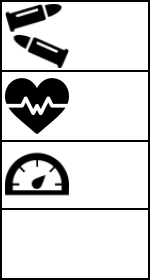
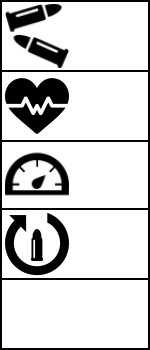
gun cooldown added

Changed region(s): [[0.0, 0.0, 0.9867, 0.8], [0.0267, 0.9714, 0.9867, 1.0]]

diff --git a/js/Player.js b/js/Player.js
@@ -13,9 +13,17 @@ this.system = this.system || {};
     p._START_SPEED = null;
     p._START_DAMAGE = null;
     p._START_HEALTH = null;
+    p._START_COOLDOWN = null;
+
     p._DAMAGE_UPGRADES = null;
     p._HEALTH_UPGRADES = null;
     p._SPEED_UPGRADES = null;
+    p._COOLDOWN_UPGRADES = null;
+
+    p._damageUpgrades = null;
+    p._healthUpgrades = null;
+    p._speedUpgrades = null;
+    p._cooldownUpgrades = null;
 
     p._speed = null;
     p._width = null;
@@ -28,11 +36,7 @@ this.system = this.system || {};
     p._health = null;
     p._healthShape = null;
     p._healthColor = null;
-    p._gunCooldown = null;
-
-    p._damageUpgrades = null;
-    p._healthUpgrades = null;
-    p._speedUpgrades = null;
+    p._cooldown = null;
 
     p._highscore = null;
 
@@ -42,12 +46,14 @@ this.system = this.system || {};
         this._START_DAMAGE = 10;
         this._START_HEALTH = 100;
         this._START_SPEED = 6;
+        this._START_COOLDOWN = 300;
 
         this._DAMAGE_UPGRADES = [5, 8, 10, 13, 16];
         this._HEALTH_UPGRADES = [15, 20, 30, 40, 50];
         this._SPEED_UPGRADES = [1, 1, 2, 2, 3];
+        this._COOLDOWN_UPGRADES = [50, 50, 50, 50, 50];
 
-        this._gunCooldown = 200;
+        this._cooldown = this._START_COOLDOWN;
 
         const highscore = this._highscore = JSON.parse(localStorage.getItem("highscore"));
         if(highscore === null){
@@ -101,15 +107,18 @@ this.system = this.system || {};
         this._speed = this._START_SPEED;
         this._health = this._START_HEALTH;
         this.mouseChildren = false;// todo staviti na svaki gfx mouse enabled false
+
         this._damageUpgrades = this._DAMAGE_UPGRADES.concat();
         this._healthUpgrades = this._HEALTH_UPGRADES.concat();
         this._speedUpgrades = this._SPEED_UPGRADES.concat();
+        this._cooldownUpgrades = this._COOLDOWN_UPGRADES.concat();
     };
 
     p.resetPlayer = function() {
         this._damage = this._START_DAMAGE;
         this._health = this._START_HEALTH;
         this._speed = this._START_SPEED;
+        this._cooldown = this._START_COOLDOWN;
         this._updateHealthBar();
     };
 
@@ -154,9 +163,17 @@ this.system = this.system || {};
         return this._damage;
     };
 
+    p.increasecooldown = function() {
+        this._cooldown -= this._cooldownUpgrades.shift();
+    };
+
+    p.getCooldown = function() {
+        return this._cooldown;
+    };
+
     p.doShootAnimation = function() {
         this._canShoot = false;
-        createjs.Tween.get(this._gunImage).to({y:15},100,createjs.Ease.circOut).to({y:0},100,createjs.Ease.circIn).wait(this._gunCooldown).call(()=>{
+        createjs.Tween.get(this._gunImage).to({y:15},100,createjs.Ease.circOut).to({y:0},100,createjs.Ease.circIn).wait(this._cooldown).call(()=>{
             this._canShoot = true;
         })
     };
@@ -197,7 +214,8 @@ this.system = this.system || {};
         return {
             'damage':this._damageUpgrades[0],
             'health':this._healthUpgrades[0],
-            'speed':this._speedUpgrades[0]
+            'speed':this._speedUpgrades[0],
+            'cooldown':this._cooldownUpgrades[0]
         }
     };
 
@@ -205,6 +223,7 @@ this.system = this.system || {};
         this._damageUpgrades = this._DAMAGE_UPGRADES.concat();
         this._healthUpgrades = this._HEALTH_UPGRADES.concat();
         this._speedUpgrades = this._SPEED_UPGRADES.concat();
+        this._cooldownUpgrades = this._COOLDOWN_UPGRADES.concat();
     };
 
     p.setHighscore = function(score) {

diff --git a/js/UpgradePanel.js b/js/UpgradePanel.js
@@ -15,6 +15,7 @@ this.system = this.system || {};
     p._damageIncrementerTxt = null;
     p._healthIncrementerTxt = null;
     p._speedIncrementerTxt = null;
+    p._cooldownIncrementerTxt = null;
 
     p._init = function (game, startingUpgradeValues) {
         this._game = game;
@@ -67,19 +68,35 @@ this.system = this.system || {};
         speedIncrementer.x = speedButton.x;
         speedIncrementer.y = textsYPos;
 
-        this.addChild(damageButton, damageIncrementer, healthButton, healthIncrementer, speedButton, speedIncrementer);
-        this._buttons.push(damageButton, healthButton, speedButton);
+        buttonImage = system.CustomMethods.makeImage('cooldownButton', true, false);
+        const cooldownButton = new system.Button(buttonImage);
+        cooldownButton.x = 466;
+        cooldownButton.y = buttonsYPos;
+        cooldownButton.on('click', ()=>{
+            cooldownButton.doScaleAnimation();
+            this._game.onUpgradeSelected('cooldown');
+        });
+        let cooldownIncrementer = this._cooldownIncrementerTxt = system.CustomMethods.makeText(`-${startingUpgradeValues.cooldown}`, '36px Teko', '#ffffff', 'center', 'middle');
+        cooldownIncrementer.x = cooldownButton.x;
+        cooldownIncrementer.y = textsYPos;
+
+        console.log(`cooldown ======== ${startingUpgradeValues.cooldown}`);
+
+        this.addChild(damageButton, damageIncrementer, healthButton, healthIncrementer, speedButton, speedIncrementer, cooldownButton, cooldownIncrementer);
+        this._buttons.push(damageButton, healthButton, speedButton, cooldownButton);
     };
 
     p.updateTextField = function(type, value) {
         const txtField = `_${type}IncrementerTxt`;
-        this[txtField].text = `+${value}`;
+        let sign = type === 'cooldown' ? '-' : '+';
+        this[txtField].text = `${sign}${value}`;
     };
 
     p.resetPanel = function(values) {
         this._damageIncrementerTxt.text = `+${values.damage}`;
         this._healthIncrementerTxt.text = `+${values.health}`;
         this._speedIncrementerTxt.text = `+${values.speed}`;
+        this._cooldownIncrementerTxt.text = `-${values.cooldown}`;
     };
 
     p.enableButtons = function(enable) {

diff --git a/js/GameoverPanel.js b/js/GameoverPanel.js
@@ -23,23 +23,23 @@ this.system = this.system || {};
 
         const centerX = back.image.width/2;
 
-        const heading = system.CustomMethods.makeText('GAME OVER', '30px Teko', '#ffffff', 'center', 'middle');
+        const heading = system.CustomMethods.makeText('GAME OVER', '40px Teko', '#ffffff', 'center', 'middle');
         heading.x = centerX;
         heading.y = 35;
 
-        const highscoreHeading = system.CustomMethods.makeText('Highscore', '30px Teko', '#ffffff', 'center', 'middle');
-        highscoreHeading.x = 100;
-        highscoreHeading.y = 80;
+        const highscoreHeading = system.CustomMethods.makeText('Highscore', '40px Teko', '#ffffff', 'center', 'middle');
+        highscoreHeading.x = centerX - 150;
+        highscoreHeading.y = 90;
 
-        const highscore = this._highscore = system.CustomMethods.makeText(playerHighscore, '30px Teko', '#ffff36', 'center', 'middle');
+        const highscore = this._highscore = system.CustomMethods.makeText(playerHighscore, '40px Teko', '#ffff36', 'center', 'middle');
         highscore.x = highscoreHeading.x;
         highscore.y = highscoreHeading.y + 50;
 
-        const currentScore = system.CustomMethods.makeText('Score', '30px Teko', '#ffffff', 'center', 'middle');
-        currentScore.x = 300;
+        const currentScore = system.CustomMethods.makeText('Score', '40px Teko', '#ffffff', 'center', 'middle');
+        currentScore.x = centerX + 150;
         currentScore.y = highscoreHeading.y;
 
-        const score = this._score = system.CustomMethods.makeText('0', '30px Teko', '#ffff36', 'center', 'middle');
+        const score = this._score = system.CustomMethods.makeText('0', '40px Teko', '#ffff36', 'center', 'middle');
         score.x = currentScore.x;
         score.y = highscore.y;
 

diff --git a/js/PlayerStats.js b/js/PlayerStats.js
@@ -13,6 +13,7 @@ this.system = this.system || {};
     p._damage = null;
     p._health = null;
     p._speed = null;
+    p._cooldown = null;
     p._score = null;
     p._scoreNum = null;
 
@@ -33,12 +34,15 @@ this.system = this.system || {};
         const speed = this._speed = system.CustomMethods.makeText(values.speed, '30px Teko', '#000000', 'center', 'middle');
         speed.y = 175;
 
-        const score = this._score = system.CustomMethods.makeText(this._scoreNum, '40px Teko', '#0006ff', 'center', 'middle');
-        score.x = back.image.width/2;
-        score.y = 250;
+        const cooldown = this._cooldown = system.CustomMethods.makeText(values.cooldown, '30px Teko', '#000000', 'center', 'middle');
+        cooldown.y = 245;
 
-        damage.x = health.x = speed.x = xPos;
-        this.addChild(damage, health, speed, score);
+        const score = this._score = system.CustomMethods.makeText(this._scoreNum, '40px Teko', '#46af57', 'center', 'middle');
+        score.x = back.image.width/2;
+        score.y = 320;
+
+        damage.x = health.x = speed.x = cooldown.x = xPos;
+        this.addChild(damage, health, speed, cooldown, score);
     };
 
     p.updateTextField = function(type, value) {
@@ -51,6 +55,7 @@ this.system = this.system || {};
         this._damage.text = values.damage;
         this._health.text = values.health;
         this._speed.text = values.speed;
+        this._cooldown.text = values.cooldown;
         this._score.text = 0;
     };
 

diff --git a/js/Game.js b/js/Game.js
@@ -99,7 +99,8 @@ this.system = this.system || {};
         const startingStatsValues = {
             'damage':this._player.getDamage(),
             'health':this._player.getHealth(),
-            'speed':this._player.getSpeed()
+            'speed':this._player.getSpeed(),
+            'cooldown':this._player.getCooldown()
         };
         const playerStatsPanel = this._playerStatsPanel = new system.PlayerStats(startingStatsValues);
         playerStatsPanel.x = 10;
@@ -498,7 +499,8 @@ this.system = this.system || {};
         const playerInfo = {
             'damage':this._player.getDamage(),
             'health':this._player.getHealth(),
-            'speed':this._player.getSpeed()
+            'speed':this._player.getSpeed(),
+            'cooldown':this._player.getCooldown()
         };
         this._playerStatsPanel.resetStats(playerInfo);
         this._enemiesController.clearEnemies();

diff --git a/index.html b/index.html
@@ -106,6 +106,7 @@
                 {id: "damageButton", src:"assets/damageButton.jpg"},
                 {id: "healthButton", src:"assets/healthButton.jpg"},
                 {id: "speedButton", src:"assets/speedButton.jpg"},
+                {id: "cooldownButton", src:"assets/cooldownButton.jpg"},
                 {id: "resetButton", src:"assets/resetButton.jpg"},
                 {id: "playerStatsBack", src:"assets/playerStatsBack.png"}
             ]);

diff --git a/js/WaveInfo.js b/js/WaveInfo.js
@@ -24,7 +24,7 @@ this.system = this.system || {};
         const spacing2 = 36;
 
         const currentWave = system.CustomMethods.makeText('Wave', '30px Teko', '#fff', 'center', 'middle');
-        currentWave.y = -165;
+        currentWave.y = -215;
         const waveNumber = this._waveNumber = system.CustomMethods.makeText('0', '30px Teko', '#ffff36', 'center', 'middle');
         waveNumber.y = currentWave.y + spacing2;
 

diff --git a/js/LevelParameters.js b/js/LevelParameters.js
@@ -9,8 +9,8 @@ this.system = this.system || {};
         'level1':{
             'enemiesDamage':5,
             'enemiesHealth':100,
-            'maxNumberOfActiveEnemies':3,
-            'maxNumberOfEnemies':6,
+            'maxNumberOfActiveEnemies':5,
+            'maxNumberOfEnemies':3,
             'color':'#ffffff',
             'movementSpeed':2
         },
